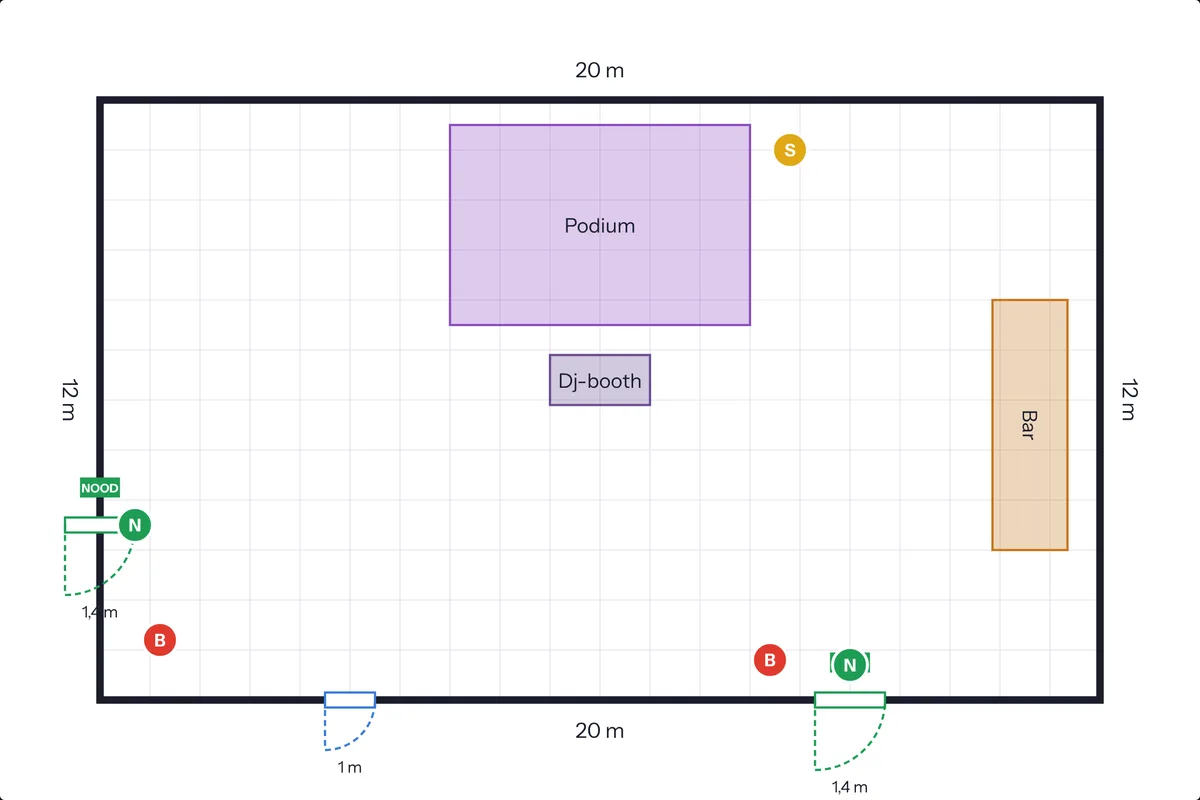
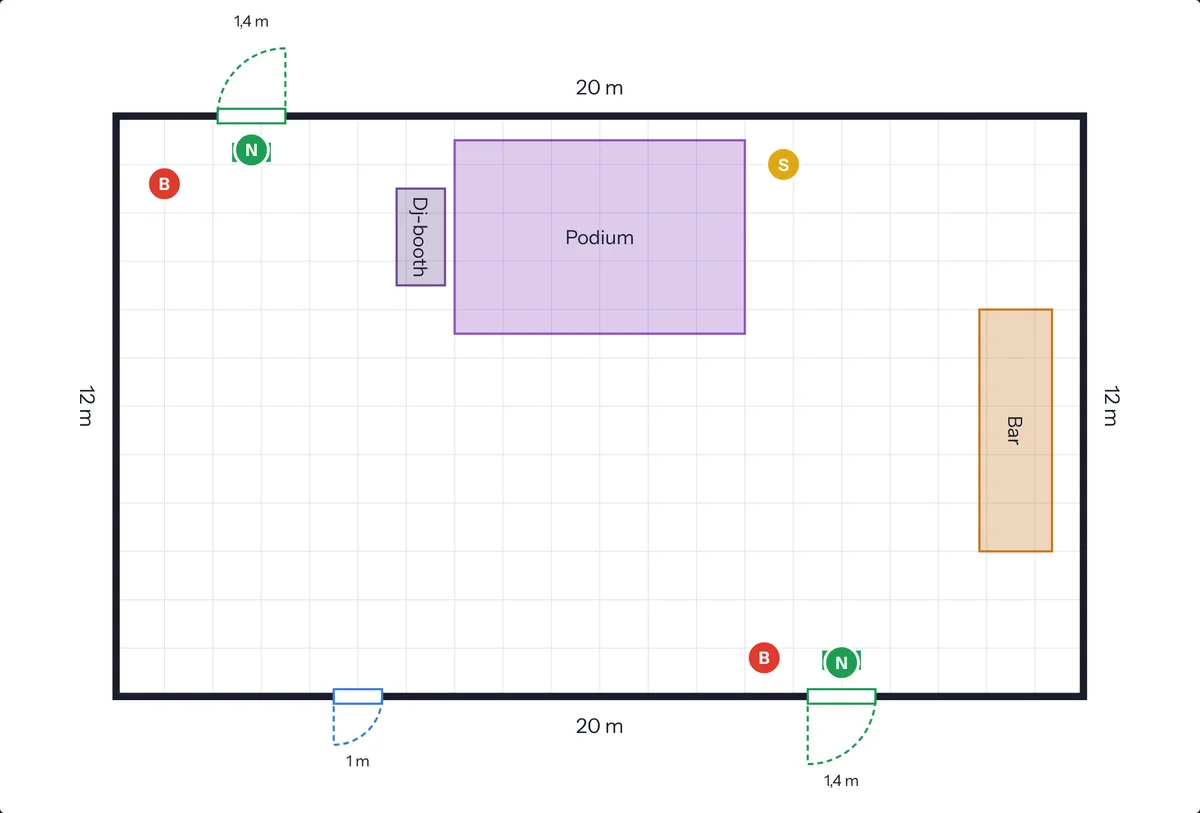
Voorbeeldplan verbeterd (deur, dj-booth); plantekenaar: marge groeit mee met brede deuren
Claude-Session: https://claude.ai/code/session_01XpA7y2QbTDKFWmtJjBrr2F

Changed region(s): [[0.0308, 0.0625, 0.9558, 1.0], [0.4625, 0.2812, 0.5242, 0.3125], [0.185, 0.0, 0.2158, 0.0312]]

diff --git a/website/public/plan/tekenaar.js b/website/public/plan/tekenaar.js
@@ -374,7 +374,7 @@ function conflicten() {
   return uit;
 }
 function tekenGrondplan() {
-  const { l, b } = S.G, mg = 2, W = l + 2 * mg, H = b + 2 * mg, p = S.G.pts, vs = vormStap();
+  const { l, b } = S.G, mg = 2 + Math.max(0, ...S.G.items.filter((i) => KAT_G[i.k] && KAT_G[i.k].f === "deur").map((i) => i.w - 1)), W = l + 2 * mg, H = b + 2 * mg, p = S.G.pts, vs = vormStap();
   const px = Math.max(14, Math.min(48, Math.floor(Math.min(($("gp").clientWidth - 48) / W, ($("gp").clientHeight - 110) / H))));
   const pad = "M " + p.map((q) => q[0] + " " + q[1]).join(" L ") + " Z";
   let s = '<svg id="gsvg" xmlns="http://www.w3.org/2000/svg" viewBox="' + -mg + " " + -mg + " " + W + " " + H + '" width="' + W * px + '" height="' + H * px + '" font-family="Instrument Sans, Arial, sans-serif">';
